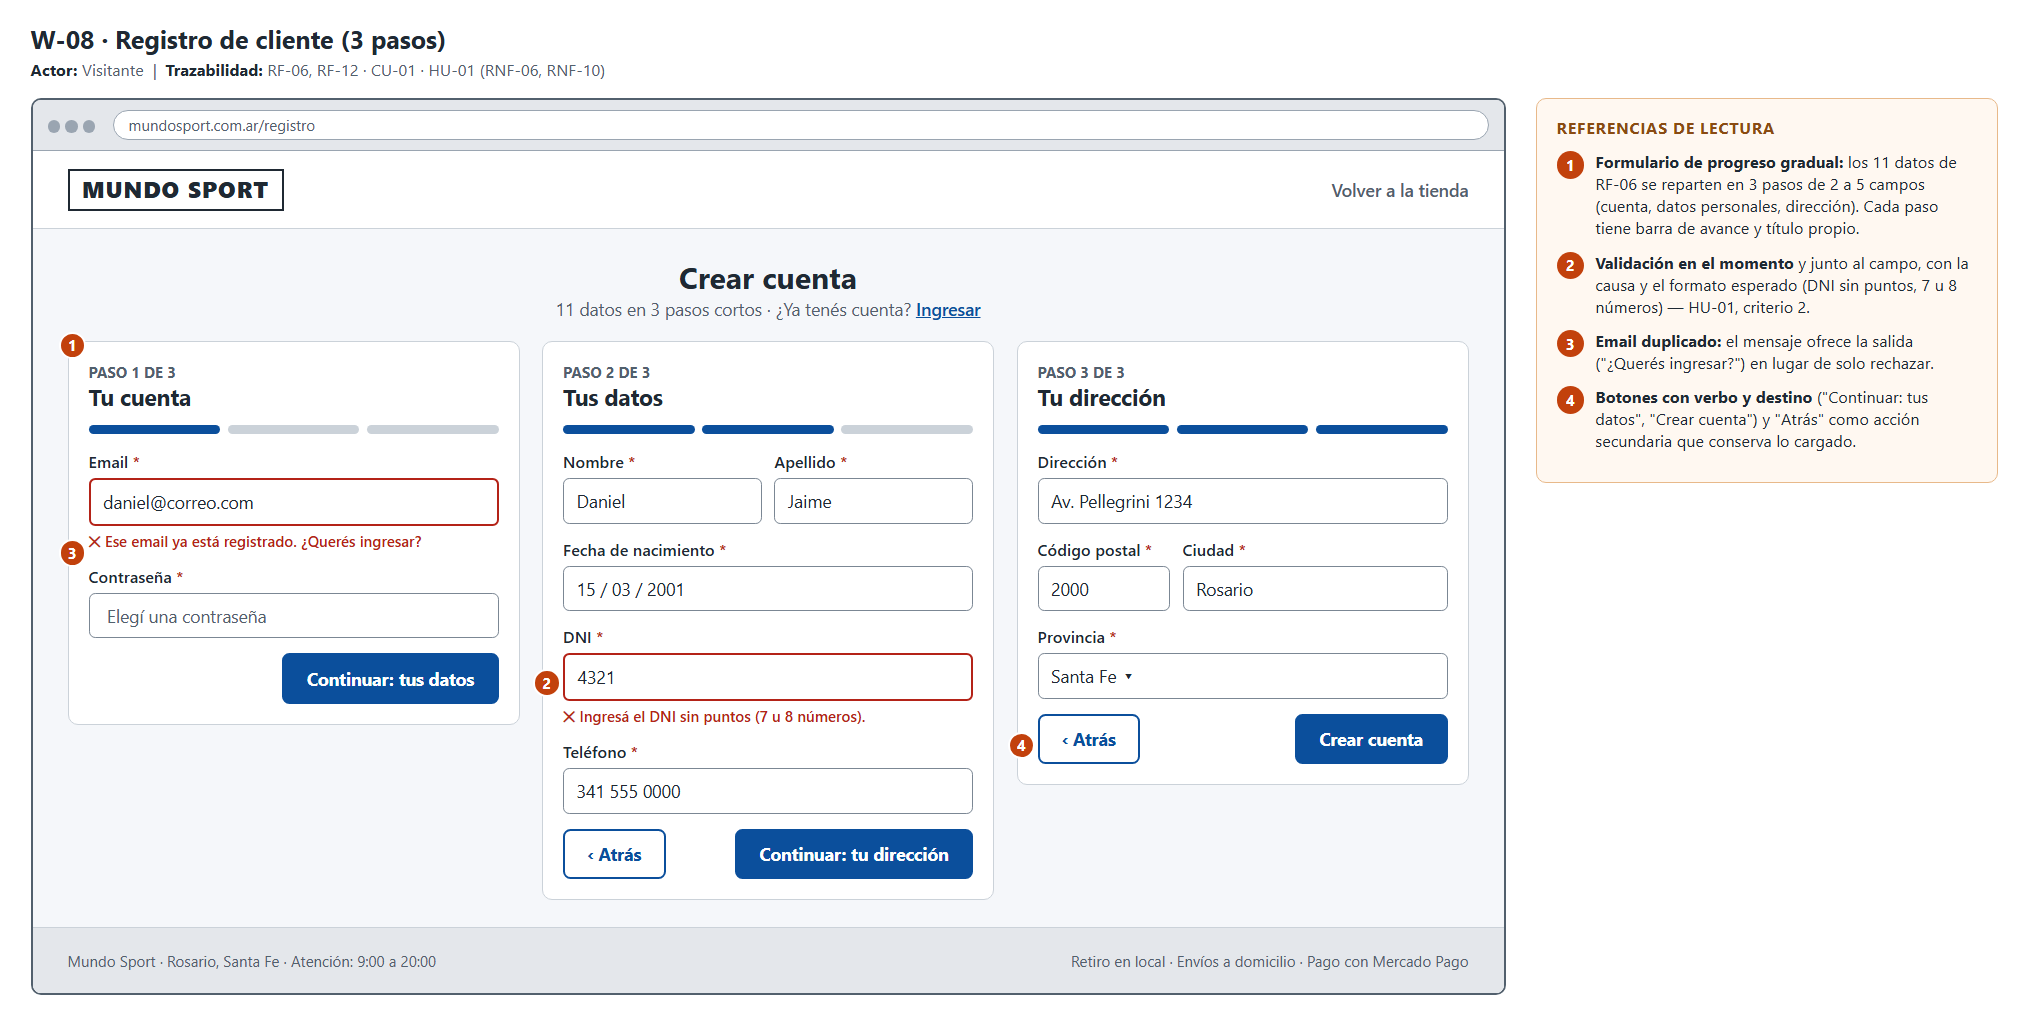
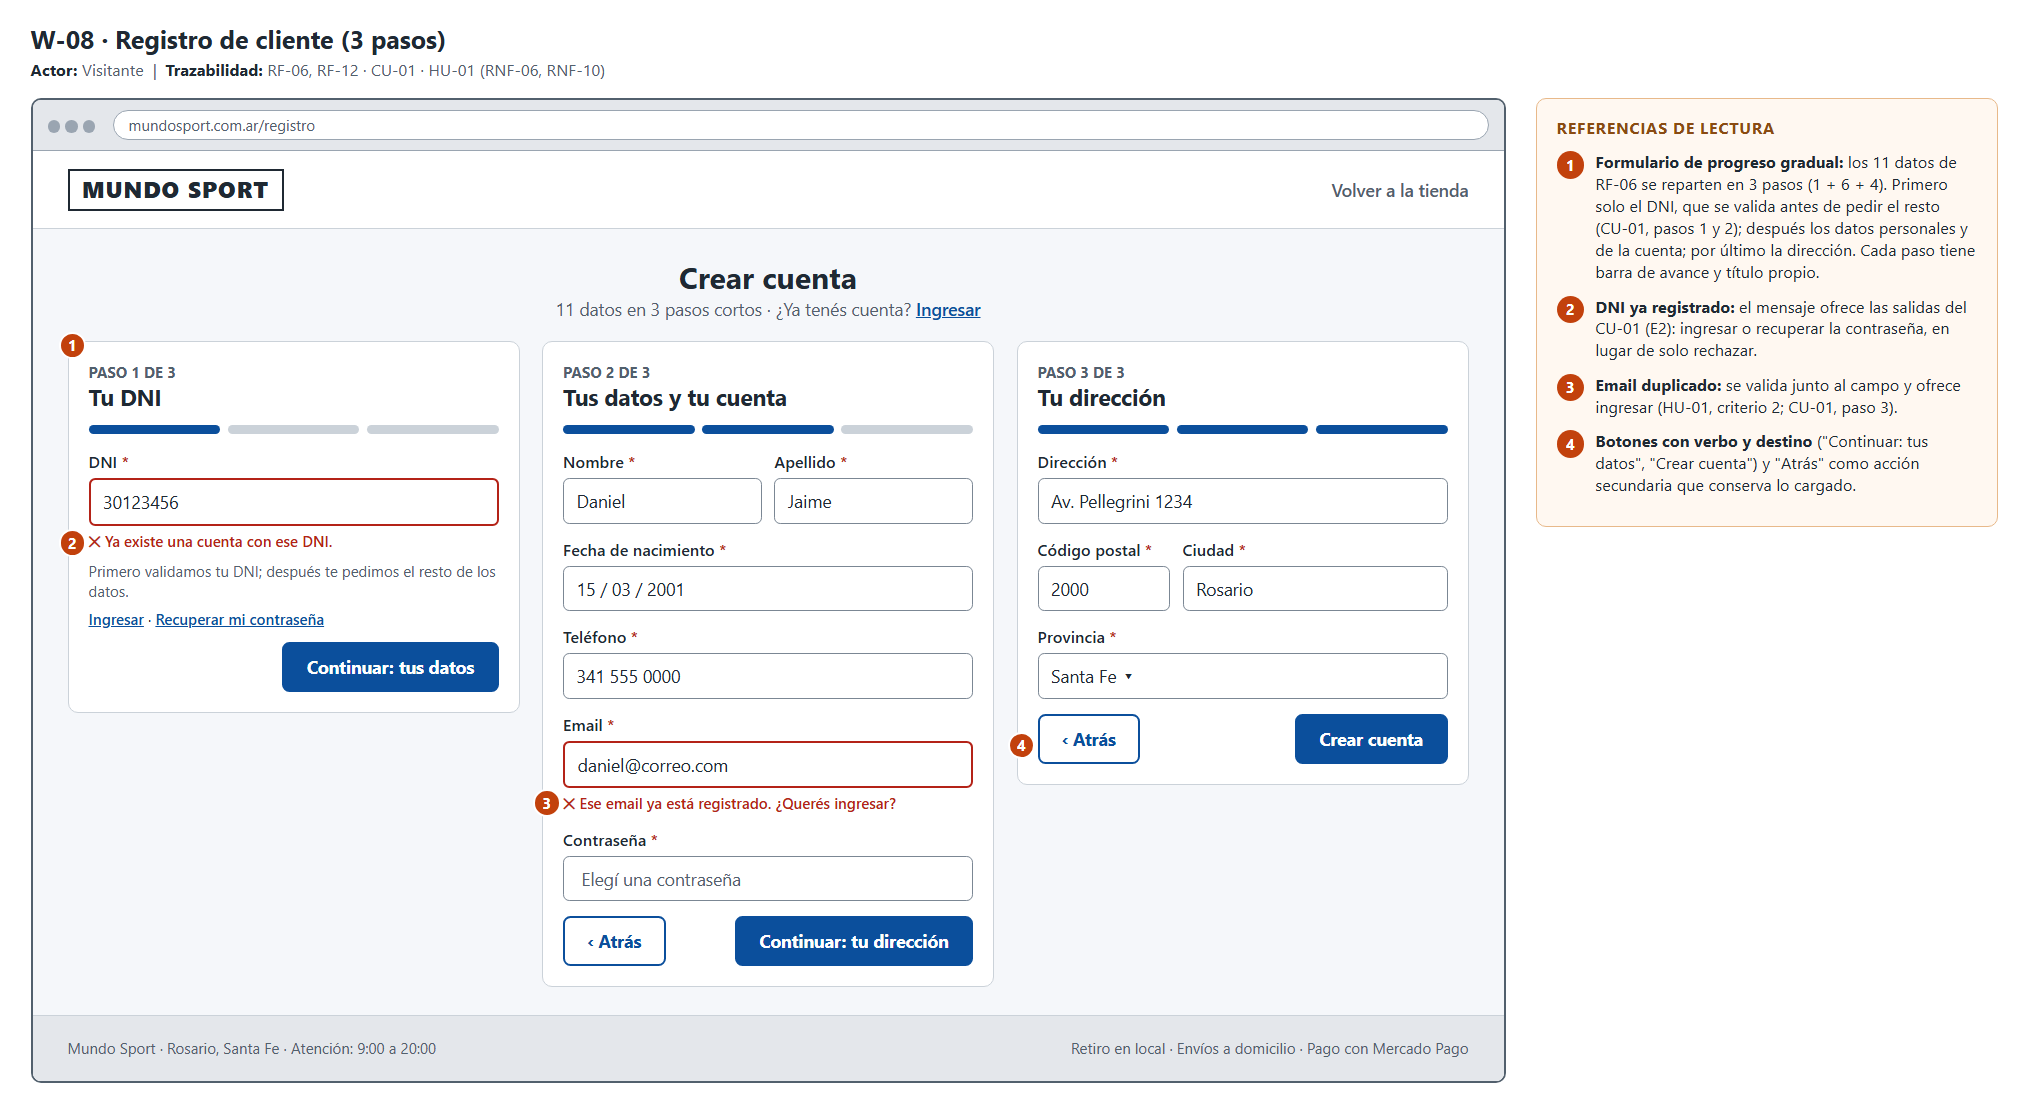
Registro con DNI primero en Diseño UI

diff --git a/docs/diseño-ui.md b/docs/diseño-ui.md
@@ -103,12 +103,12 @@ Los wireframes son de baja fidelidad (grises y un único color de acción) y cad
 
 **Patrones de diseño utilizados:** formulario de progreso gradual en 3 pasos con barra de avance, validación en el momento y botones con verbo y destino.
 
-**Justificación:** RF-06 pide 11 datos, demasiados para una sola pantalla en un celular. Se reparten en 3 pasos de 2 a 5 campos, agrupados por tema (cuenta, datos personales, dirección) y cada uno con título y barra de avance, para que el cliente sepa cuánto falta. Cada error se muestra junto al campo, con la causa y el formato esperado (por ejemplo "Ingresá el DNI sin puntos (7 u 8 números)"). Si el email ya existe, el mensaje ofrece la salida ("¿Querés ingresar?") en vez de solo rechazar. Los botones dicen qué viene después ("Continuar: tus datos", "Crear cuenta") y "Atrás" es una acción secundaria que conserva lo ya cargado.
+**Justificación:** RF-06 pide 11 datos, demasiados para una sola pantalla en un celular. Se reparten en 3 pasos, agrupados por tema y cada uno con título y barra de avance, para que el cliente sepa cuánto falta. El primer paso pide solo el DNI y lo valida antes de mostrar el resto, igual que el CU-01 (pasos 1 y 2), de modo que quien ya tiene cuenta lo sabe de entrada y no pierde tiempo completando todo el formulario. Cada error se muestra junto al campo, con la causa y el formato esperado (por ejemplo "Ingresá el DNI sin puntos (7 u 8 números)"). Si el DNI o el email ya existen, el mensaje ofrece la salida (ingresar o recuperar la contraseña, "¿Querés ingresar?") en vez de solo rechazar. Los botones dicen qué viene después ("Continuar: tus datos", "Crear cuenta") y "Atrás" es una acción secundaria que conserva lo ya cargado.
 
 **Formulario (si aplica):**
-- Cantidad de campos: 11, repartidos en 3 pasos (2 + 5 + 4): email y contraseña; nombre, apellido, fecha de nacimiento, DNI y teléfono; dirección, código postal, ciudad y provincia.
+- Cantidad de campos: 11, repartidos en 3 pasos (1 + 6 + 4): DNI; nombre, apellido, fecha de nacimiento, teléfono, email y contraseña; dirección, código postal, ciudad y provincia.
 - Flujo: por pasos.
-- Validaciones relevantes: todos los datos son obligatorios; formato válido de email y DNI; no se permite registrar un email o DNI ya existente (HU-01, criterio 2); mensaje de error junto al campo (RNF-10).
+- Validaciones relevantes: todos los datos son obligatorios; formato válido de email y DNI; no se permite registrar un email o DNI ya existente (HU-01, criterio 2; CU-01, E2); mensaje de error junto al campo (RNF-10).
 
 ---
 
